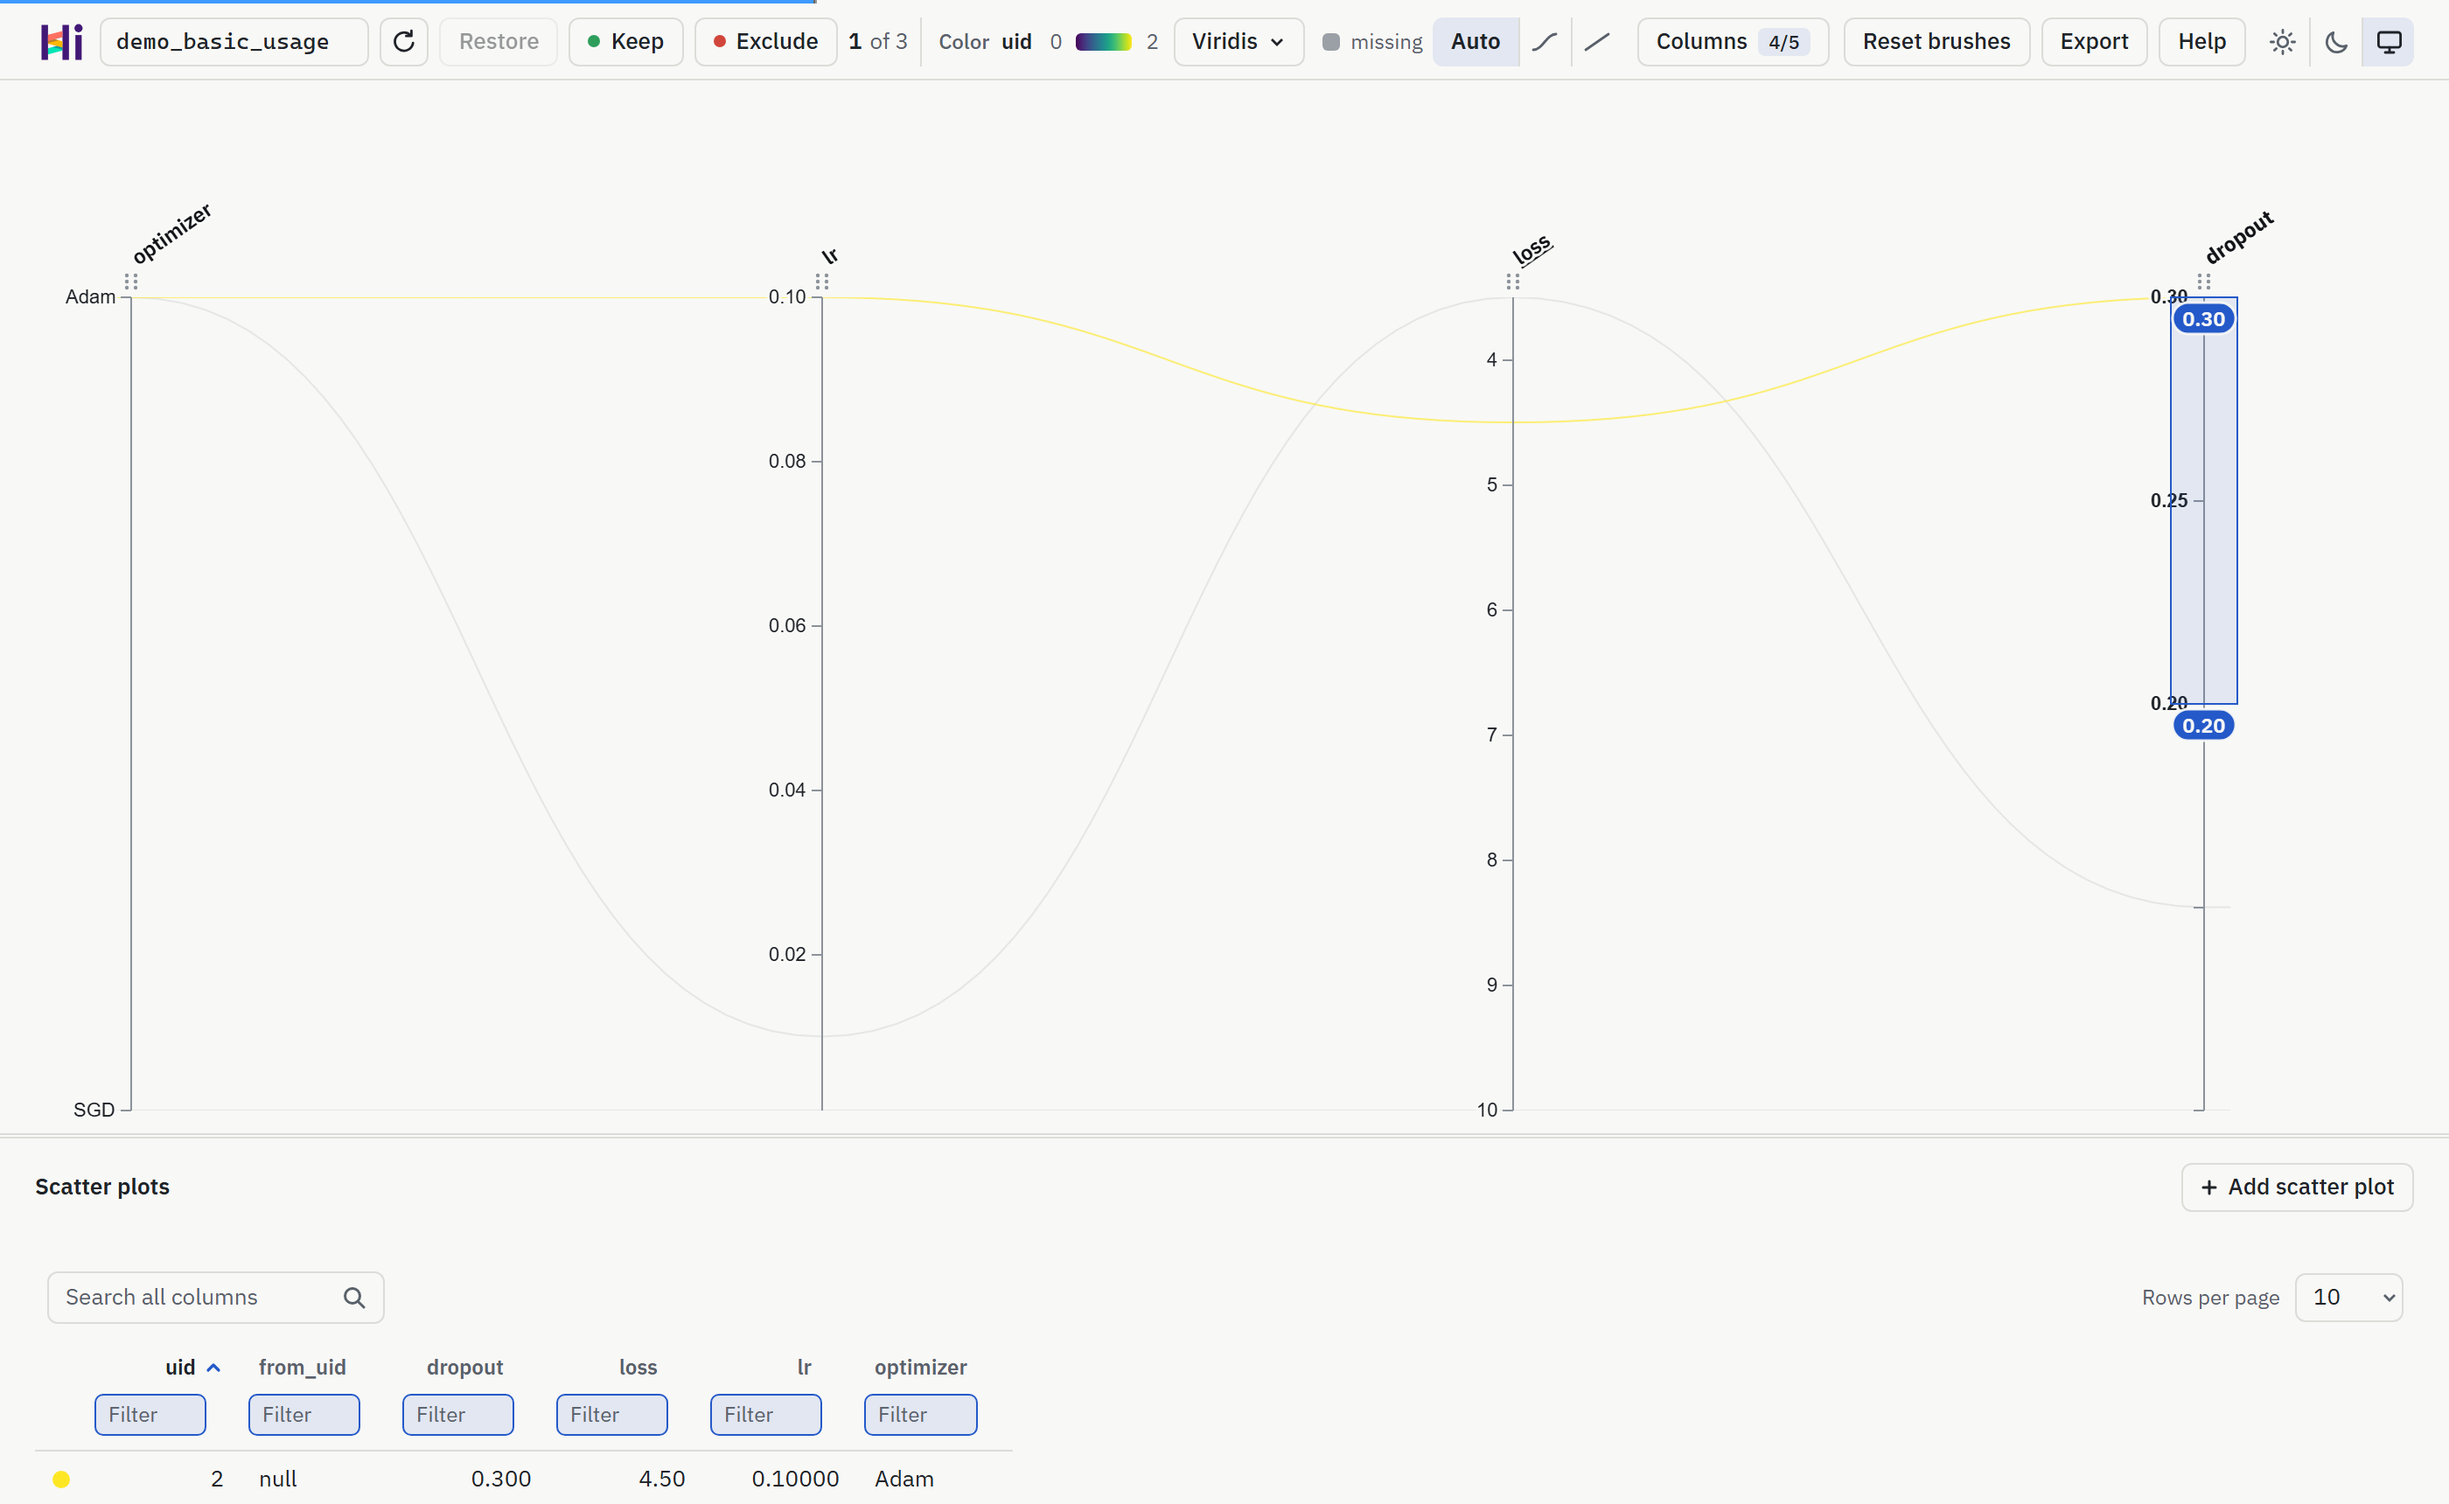
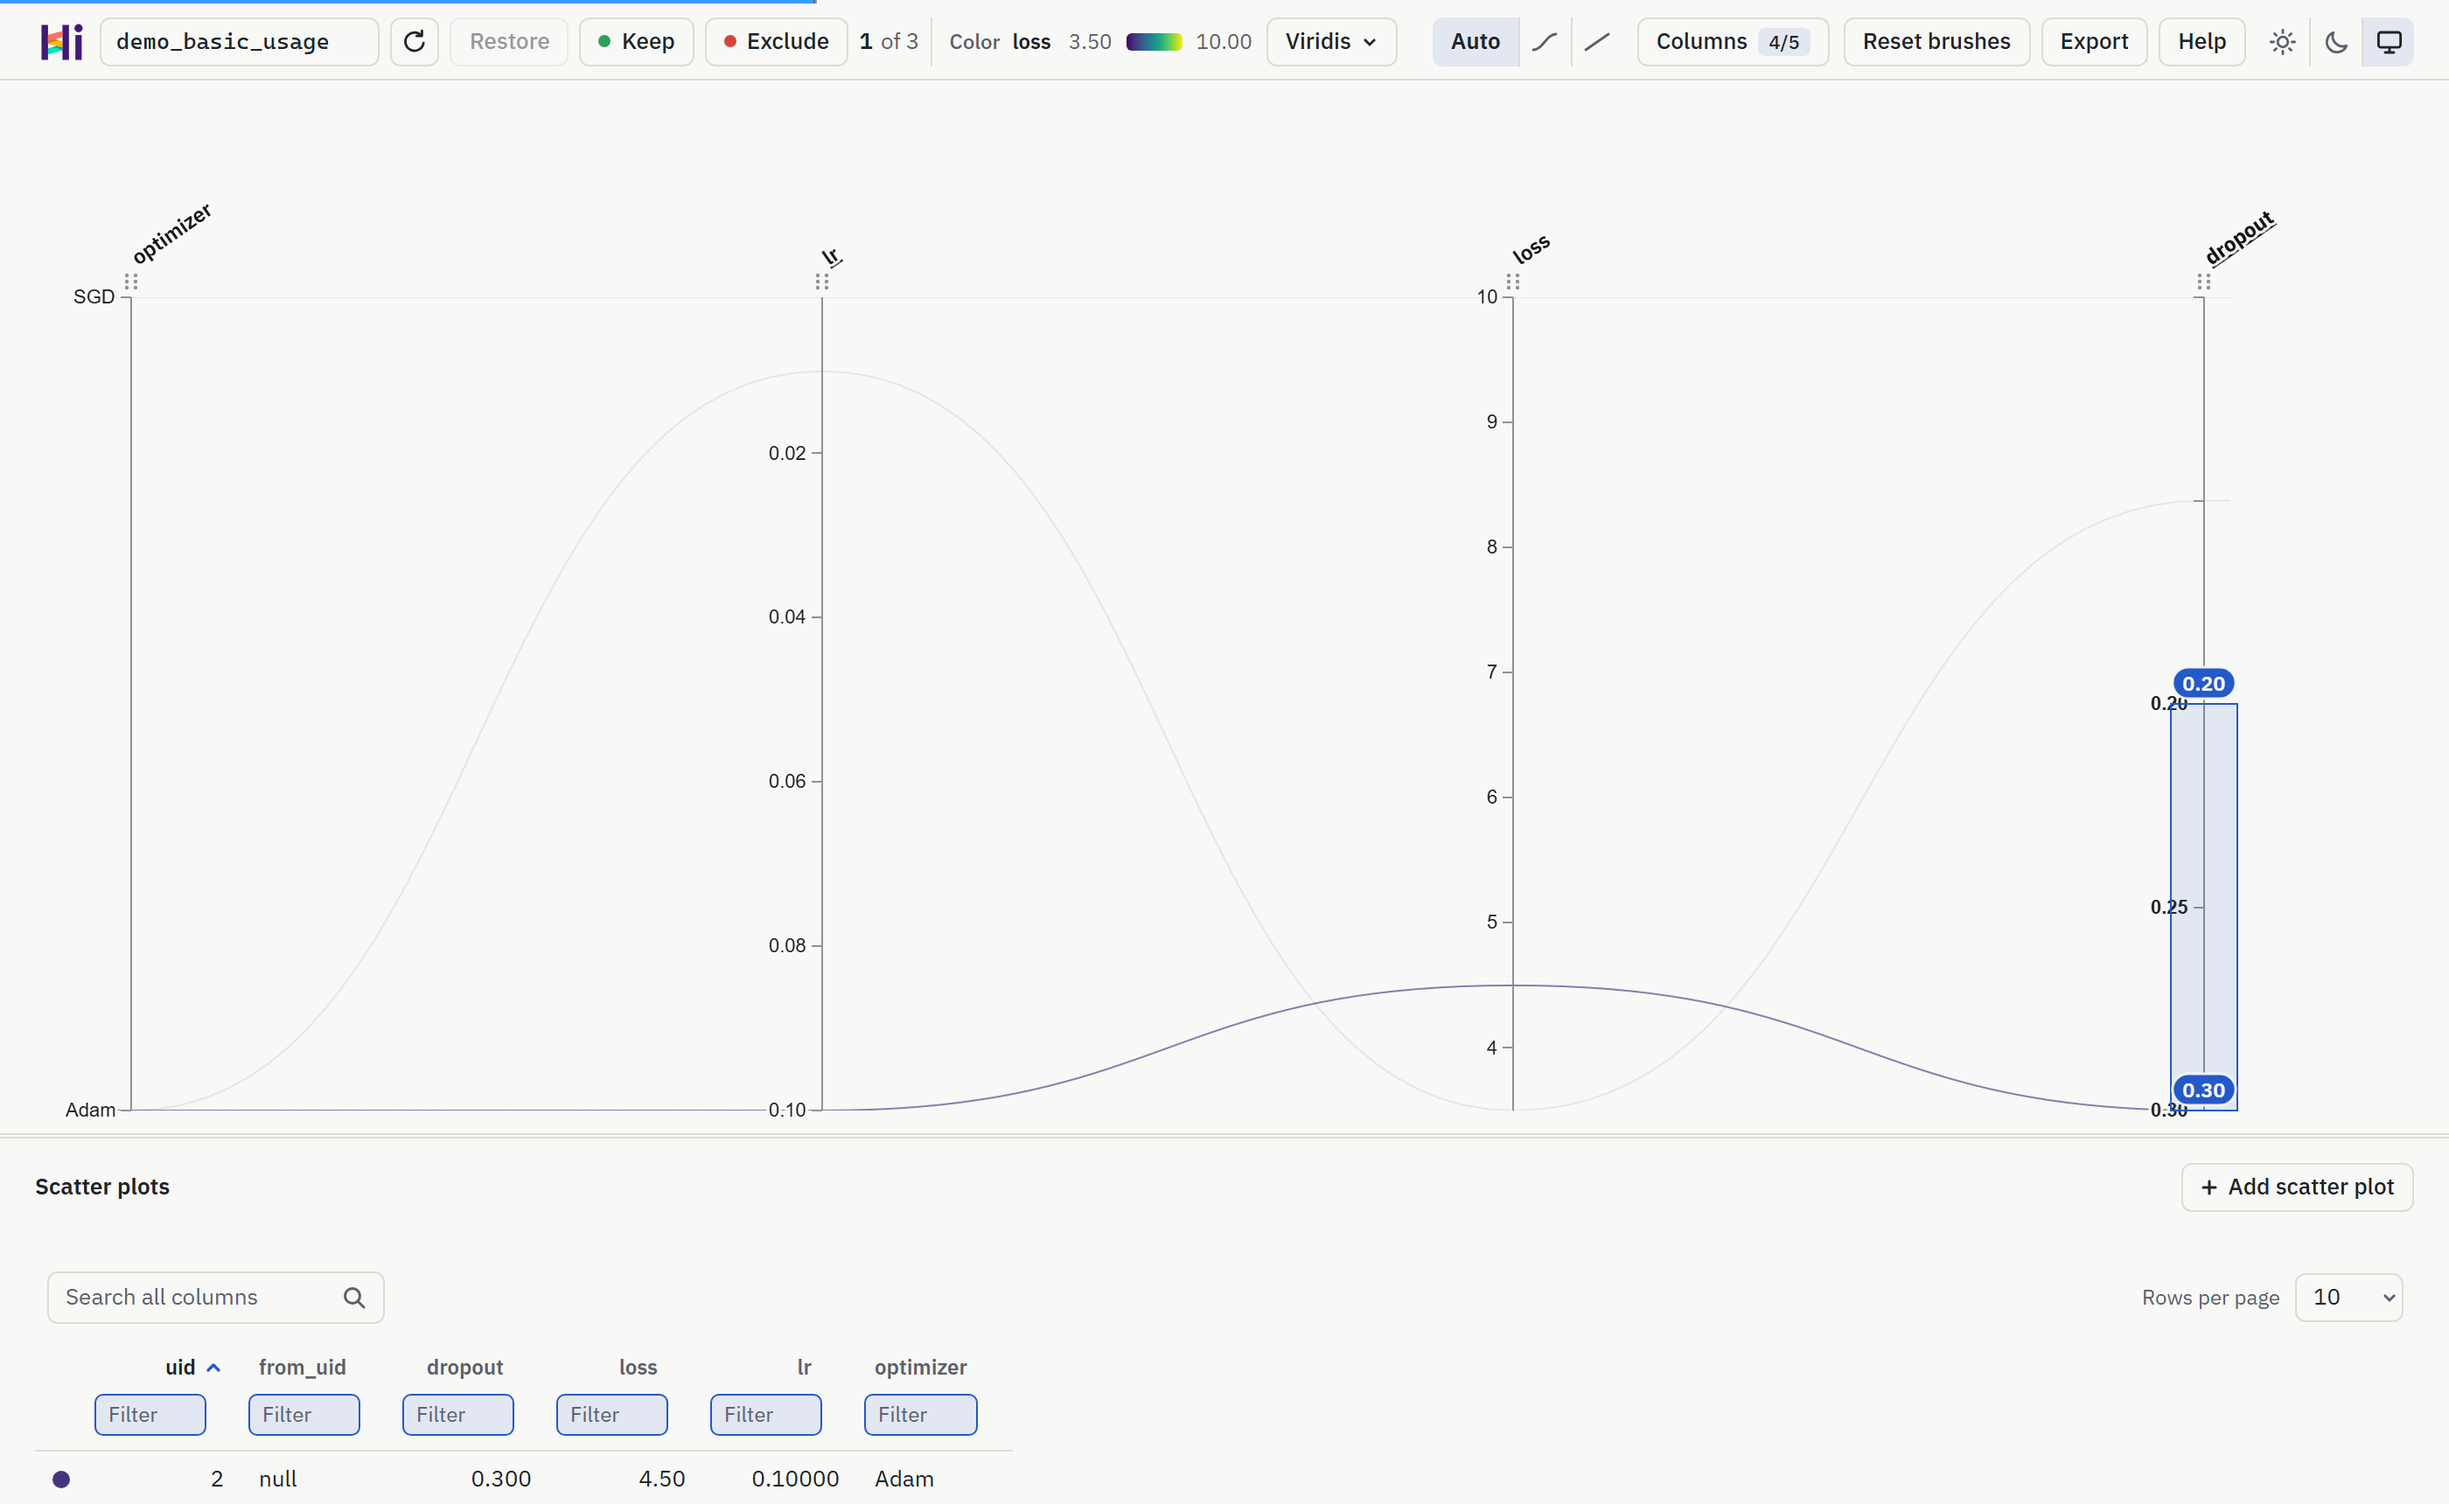
Color the basic examples by loss
The objective is the natural color for a sweep, and the README, docs,
demo and Streamlit example now show it.

diff --git a/hiplot/fetchers_demo.py b/hiplot/fetchers_demo.py
@@ -36,7 +36,9 @@ def demo_basic_usage() -> hip.Experiment:
         {"dropout": 0.15, "lr": 0.01, "loss": 3.5, "optimizer": "Adam"},
         {"dropout": 0.3, "lr": 0.1, "loss": 4.5, "optimizer": "Adam"},
     ]
-    return hip.Experiment.from_iterable(data)
+    exp = hip.Experiment.from_iterable(data)
+    exp.colorby = "loss"
+    return exp
 
 
 def demo_line_xy() -> hip.Experiment:

diff --git a/examples/demo_streamlit.py b/examples/demo_streamlit.py
@@ -18,6 +18,7 @@ data = [
     {"uid": "c", "dropout": 0.3, "lr": 0.1, "loss": 4.5, "optimizer": "Adam", "x": x3},
 ]
 xp = hip.Experiment.from_iterable(data)
+xp.colorby = "loss"
 
 # Instead of calling directly `.display()`
 # just convert it to a streamlit component with `.to_streamlit()` before

diff --git a/docs/tuto_notebook.rst b/docs/tuto_notebook.rst
@@ -22,7 +22,9 @@ and restored when :meth:`hiplot.Experiment.display` is called a second time late
     data = [{'dropout':0.1, 'lr': 0.001, 'loss': 10.0, 'optimizer': 'SGD'},
             {'dropout':0.15, 'lr': 0.01, 'loss': 3.5, 'optimizer': 'Adam'},
             {'dropout':0.3, 'lr': 0.1, 'loss': 4.5, 'optimizer': 'Adam'}]
-    hip.Experiment.from_iterable(data).display(store_state_key="cell1")
+    exp = hip.Experiment.from_iterable(data)
+    exp.colorby = "loss"
+    exp.display(store_state_key="cell1")
 
 
 
@@ -51,7 +53,9 @@ about selected datapoints, filtering, ...
     data = [{'dropout':0.1, 'lr': 0.001, 'loss': 10.0, 'optimizer': 'SGD'},
             {'dropout':0.15, 'lr': 0.01, 'loss': 3.5, 'optimizer': 'Adam'},
             {'dropout':0.3, 'lr': 0.1, 'loss': 4.5, 'optimizer': 'Adam'}]
-    displayed_exp = hip.Experiment.from_iterable(data).display()
+    exp = hip.Experiment.from_iterable(data)
+    exp.colorby = "loss"
+    displayed_exp = exp.display()
 
 
 .. figure:: ../assets/displayed_experiment.png

diff --git a/docs/getting_started.rst b/docs/getting_started.rst
@@ -60,7 +60,9 @@ Once we have created this object, we can display it with :class:`hiplot.Experime
     data = [{'dropout':0.1, 'lr': 0.001, 'loss': 10.0, 'optimizer': 'SGD'},
             {'dropout':0.15, 'lr': 0.01, 'loss': 3.5, 'optimizer': 'Adam'},
             {'dropout':0.3, 'lr': 0.1, 'loss': 4.5, 'optimizer': 'Adam'}]
-    hip.Experiment.from_iterable(data).display()
+    exp = hip.Experiment.from_iterable(data)
+    exp.colorby = "loss"
+    exp.display()
 
 
 .. raw:: html

diff --git a/README.md b/README.md
@@ -76,7 +76,9 @@ data = [
     {"dropout": 0.15, "lr": 0.01, "loss": 3.5, "optimizer": "Adam"},
     {"dropout": 0.3, "lr": 0.1, "loss": 4.5, "optimizer": "Adam"},
 ]
-hip.Experiment.from_iterable(data).display()
+exp = hip.Experiment.from_iterable(data)
+exp.colorby = "loss"
+exp.display()
 ```
 
 ### [See the live result](https://poipoi300.github.io/hiplot/_static/demo/demo_basic_usage.html)
